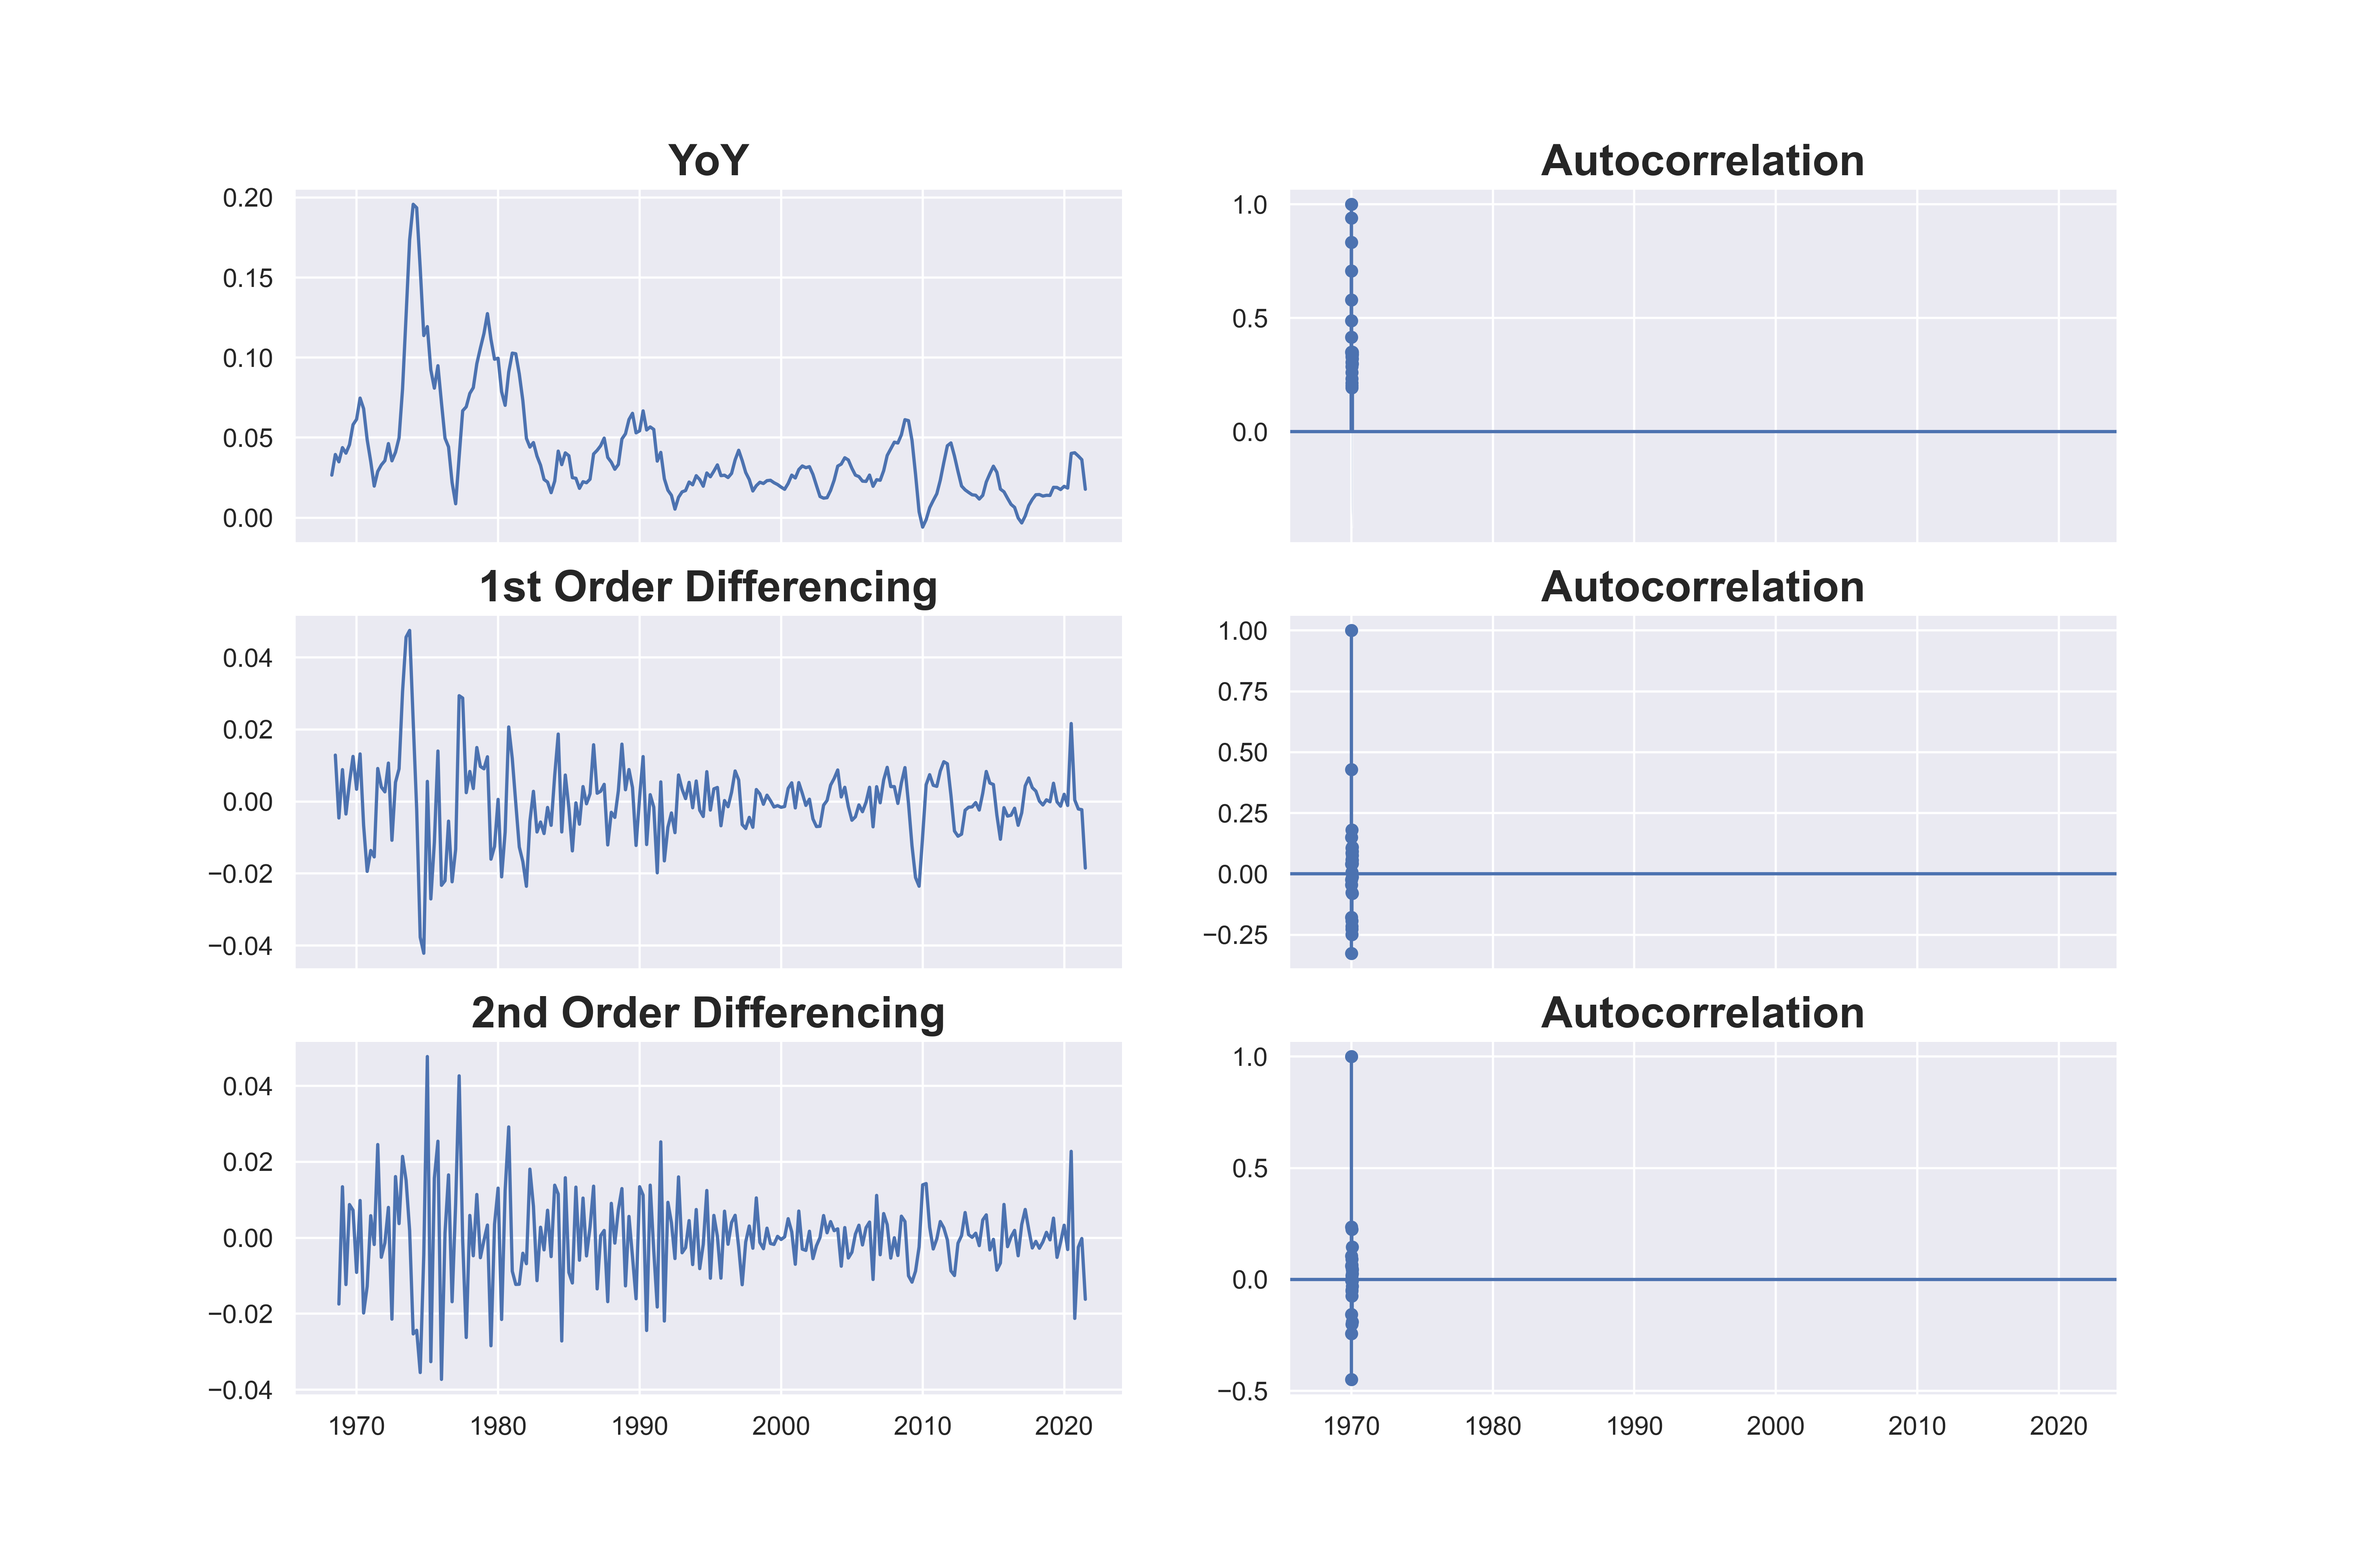
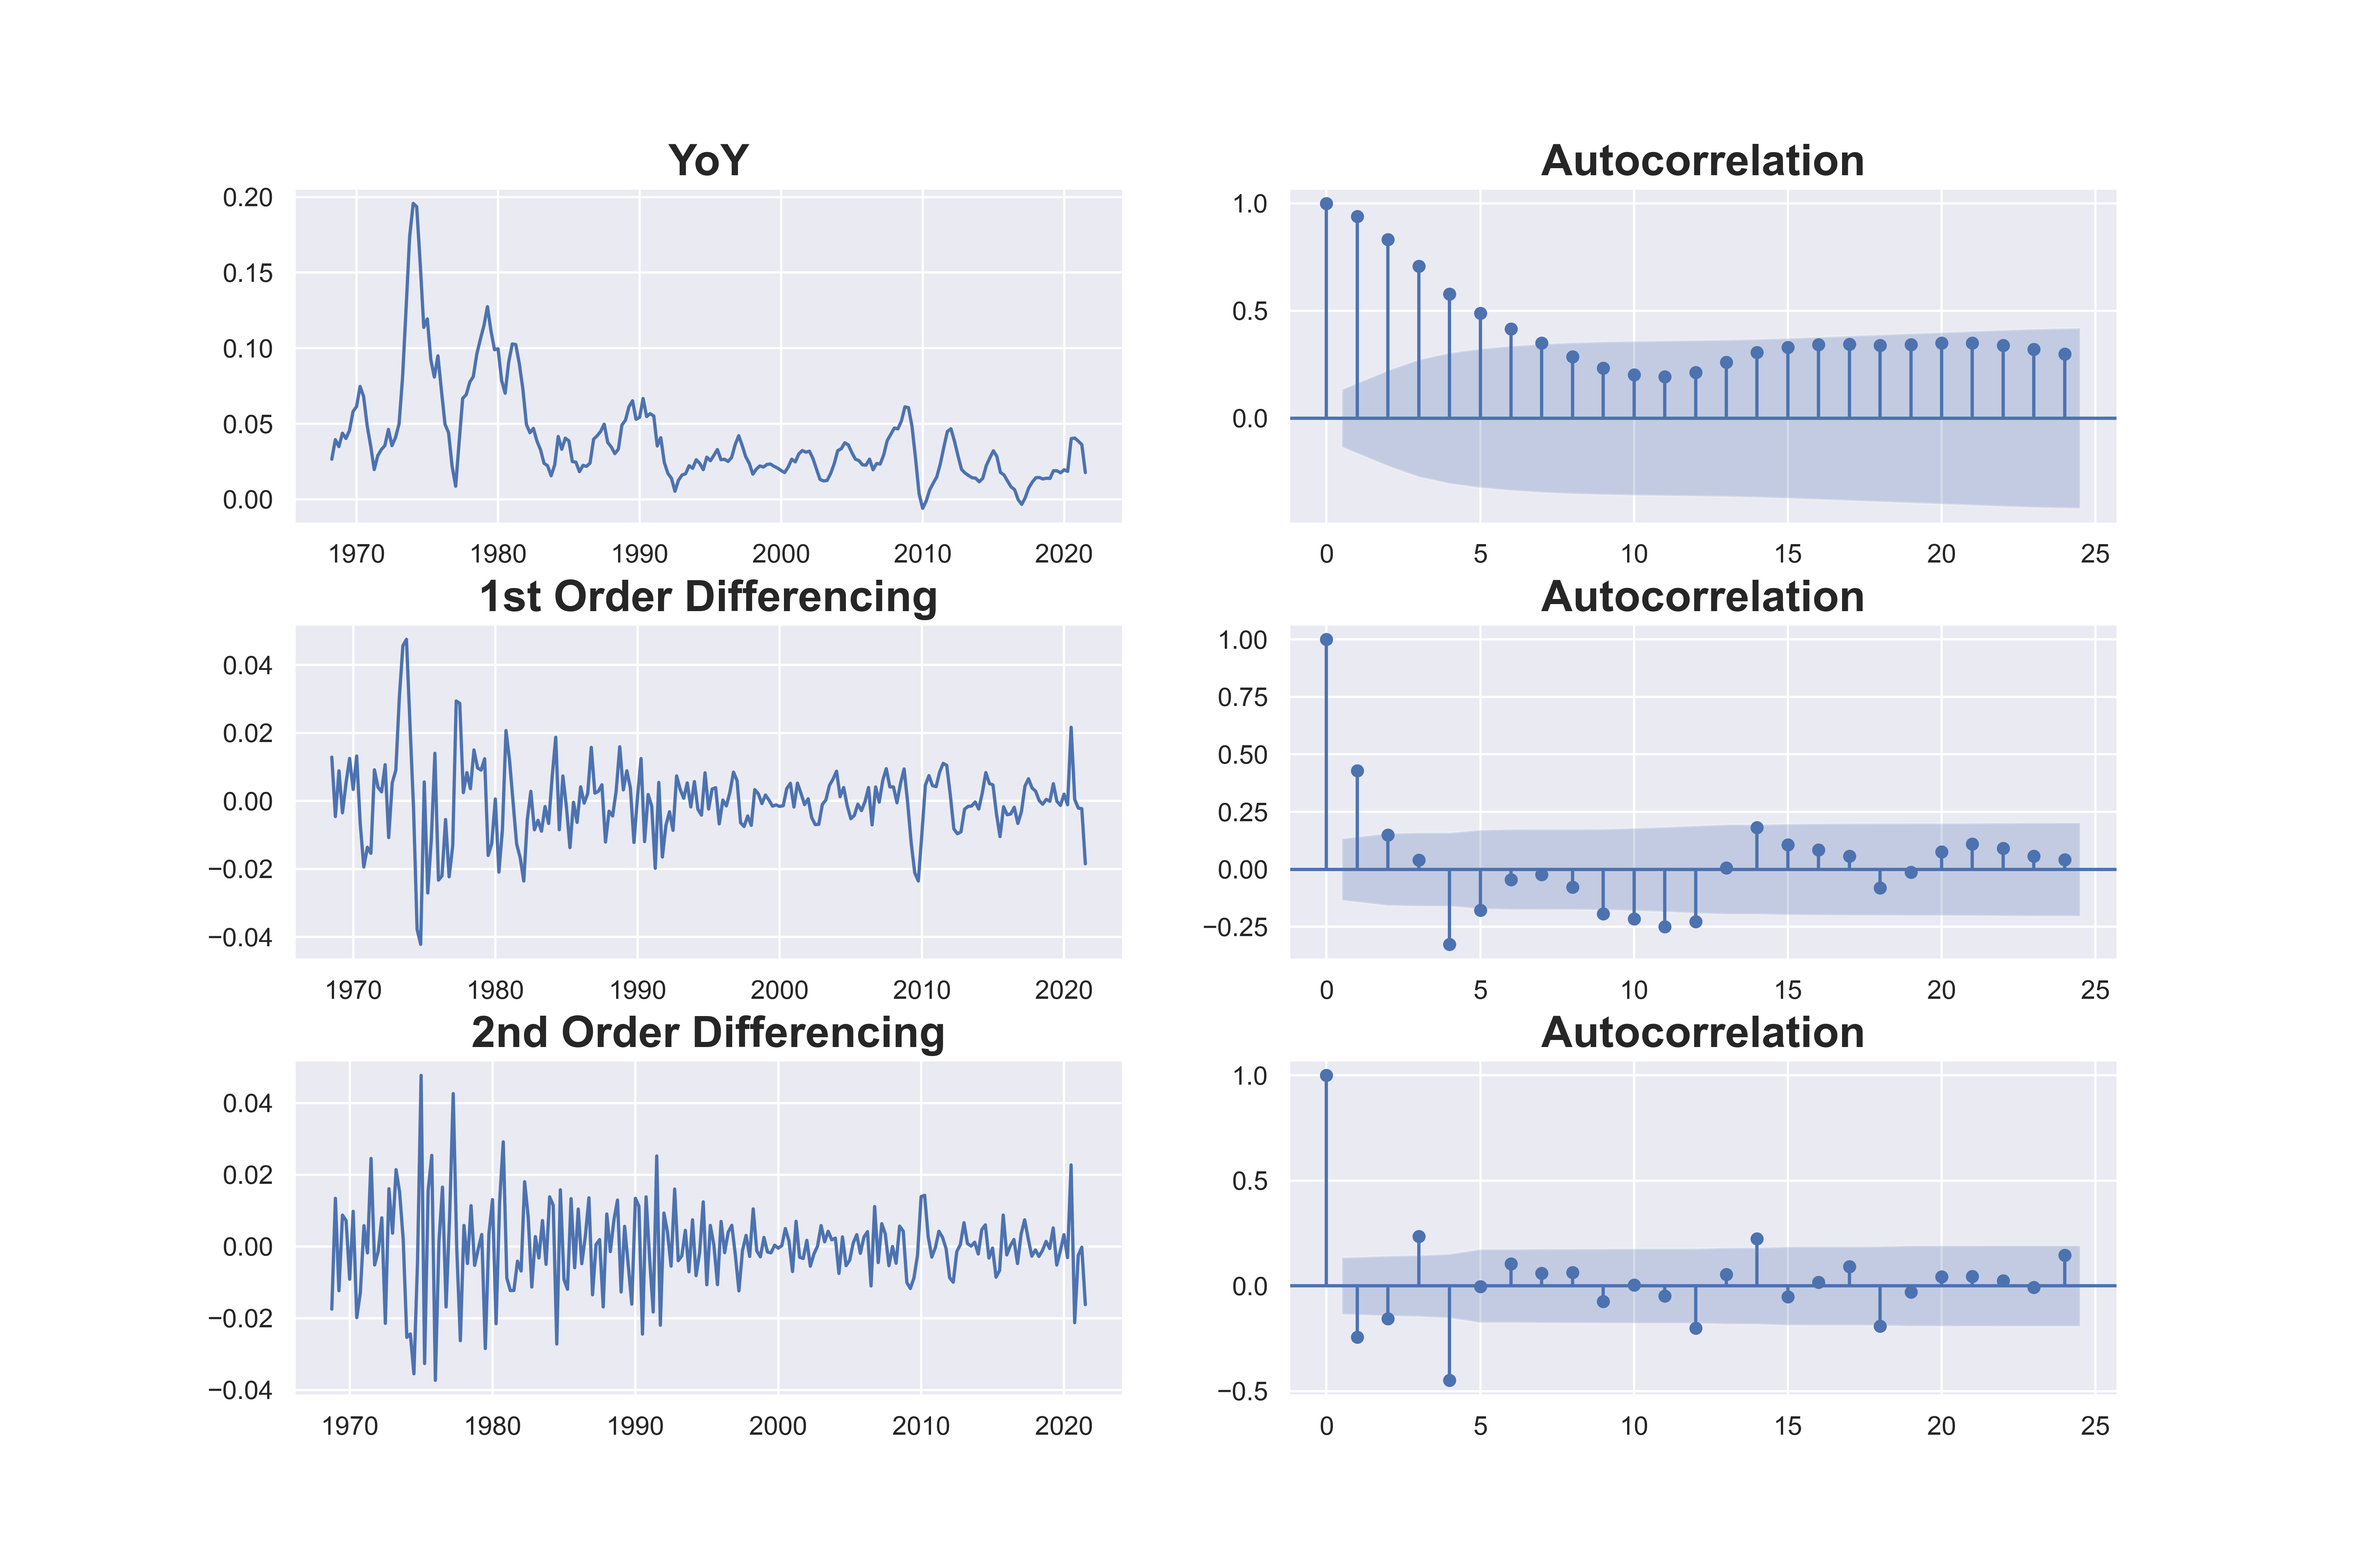
ts regression

diff --git a/_posts/2021-5-14-1-Timeseries-Modeling.md b/_posts/2021-5-14-1-Timeseries-Modeling.md
@@ -444,7 +444,7 @@ print('p-value: %f' % stationary_result[1])
 ADF Statistic: -1.780230
 p-value: 0.390320
 # Original Series
-fig, axes = plt.subplots(3, 2, sharex=True, figsize=(15,10))
+fig, axes = plt.subplots(3, 2,figsize=(15,10) #sharex=False
 axes[0, 0].plot(df.food); axes[0, 0].set_title('Level')
 plot_acf(df.food, ax=axes[0, 1])
 
